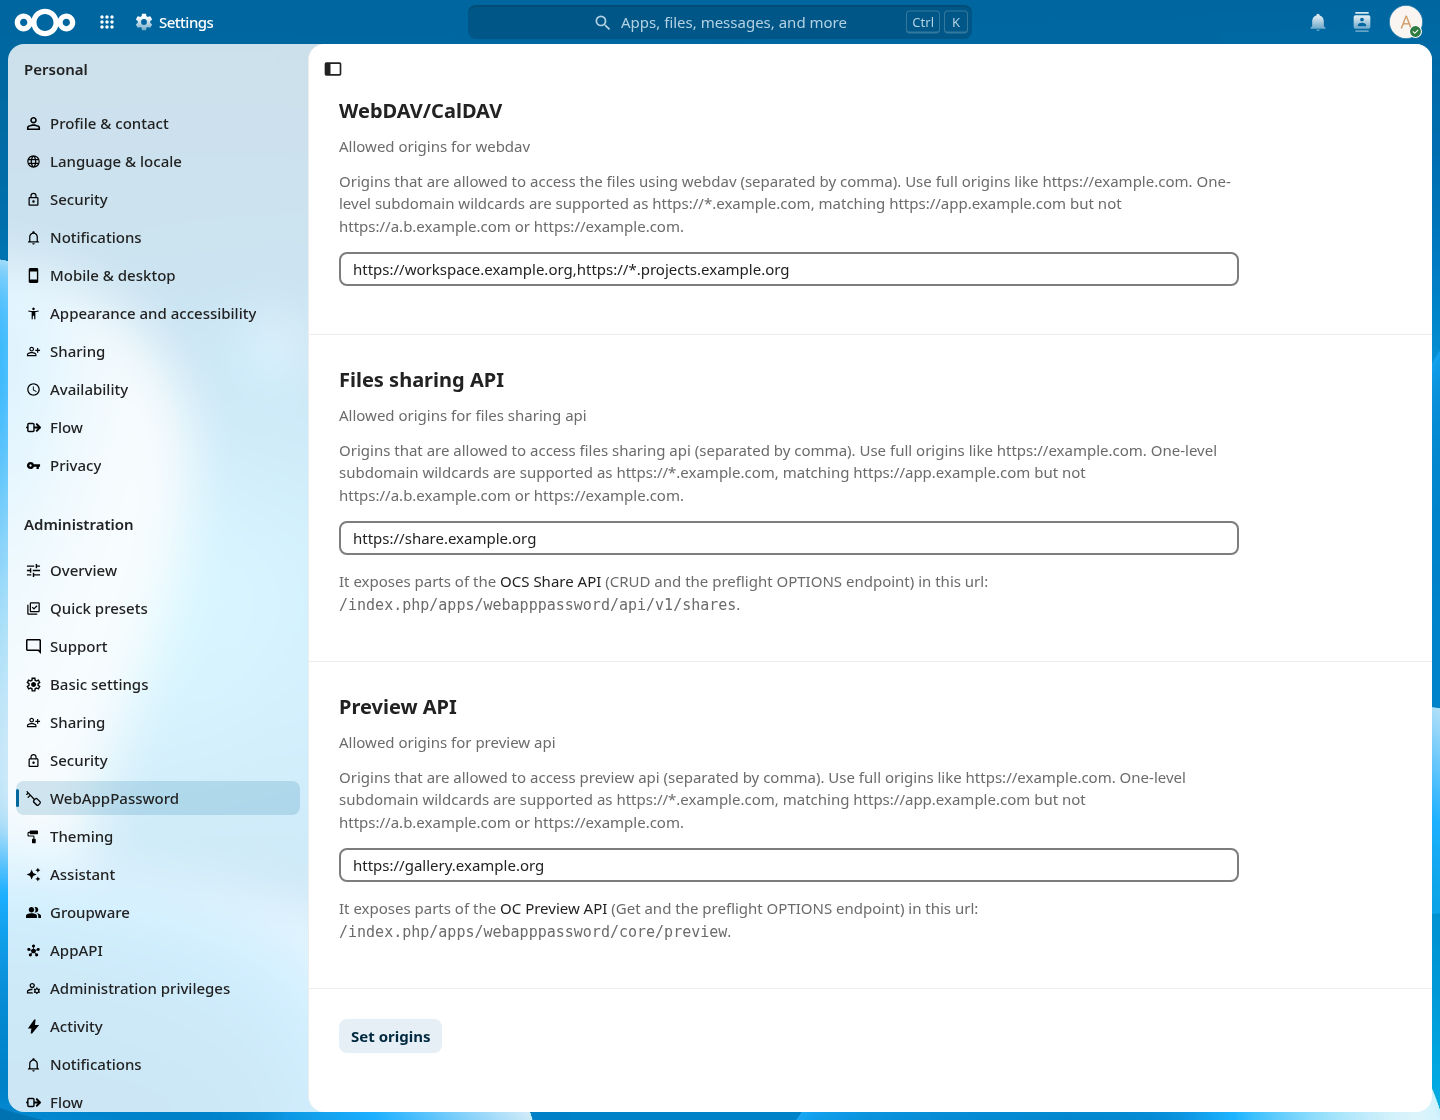
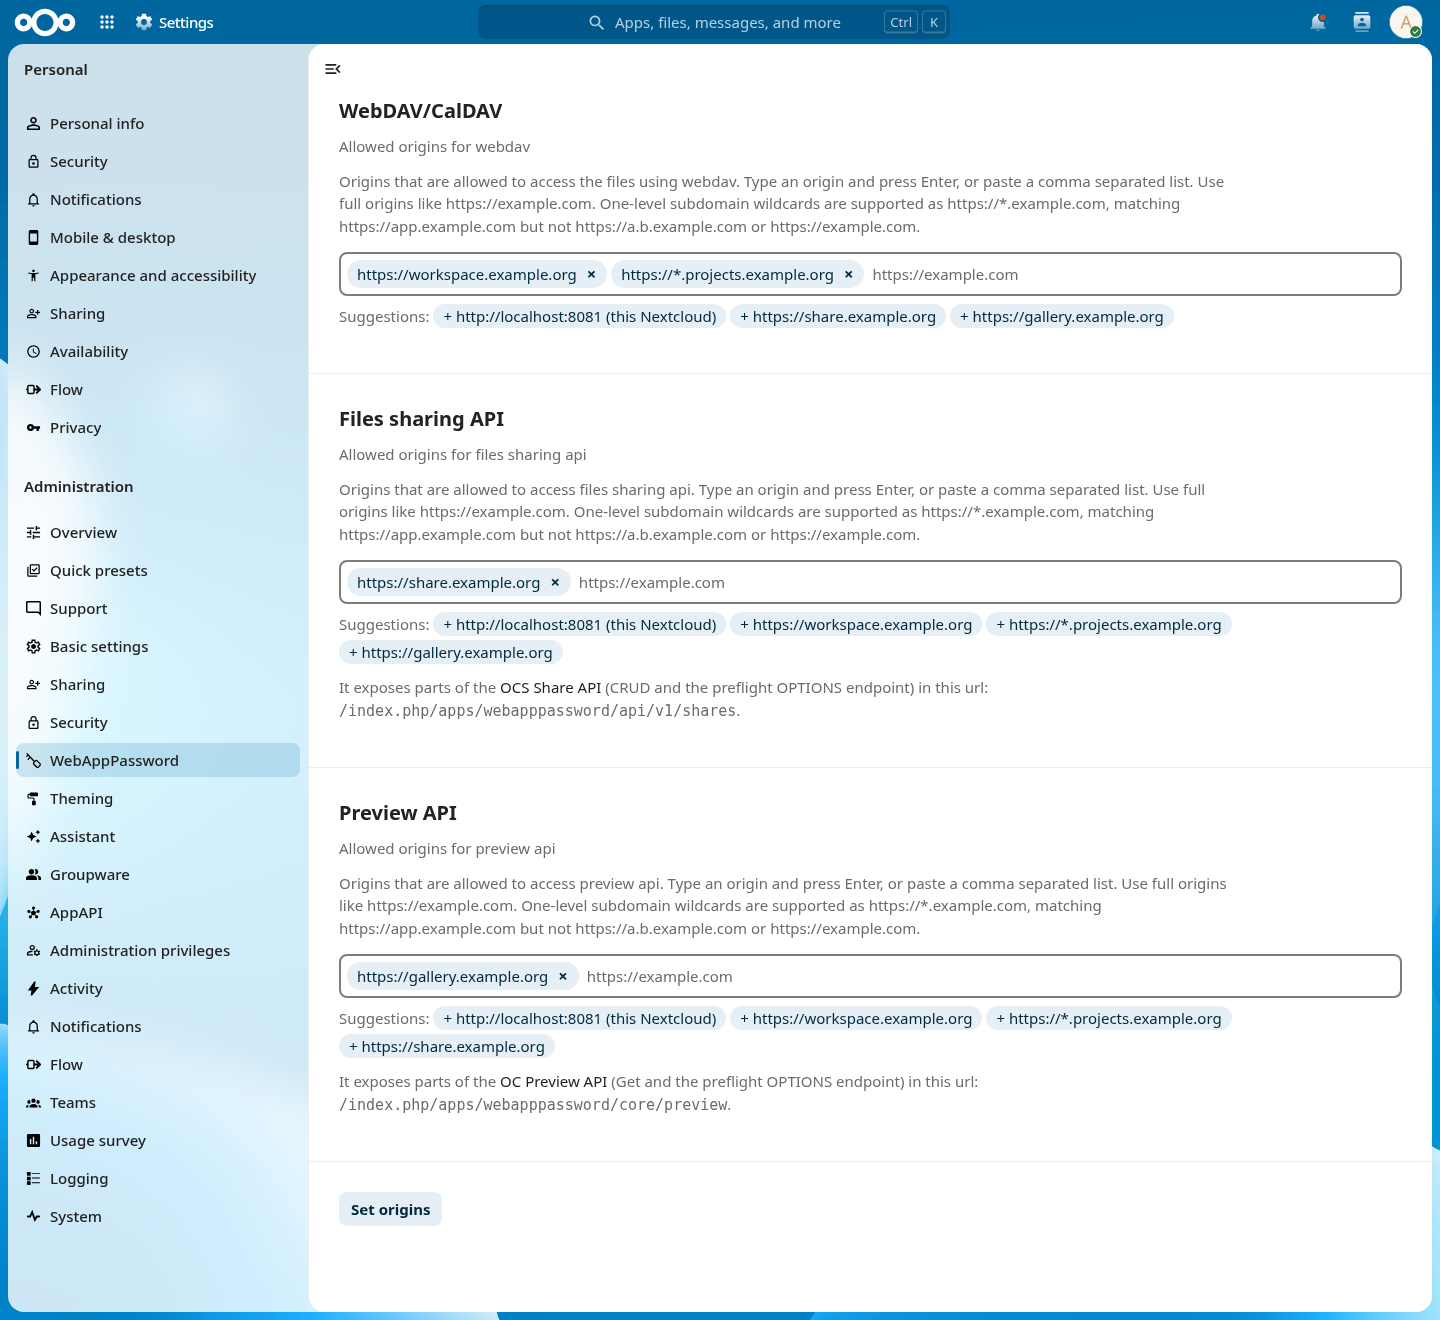
docs: update admin screenshot for the origin pickers (#360)
Clear existing origin chips before filling in the example origins and
increase the viewport height so the taller form fits.

diff --git a/scripts/screenshots.py b/scripts/screenshots.py
@@ -173,7 +173,7 @@ def capture_admin(browser: Browser) -> bytes:
     wait_for_nextcloud(base_url)
 
     page = browser.new_page(
-        viewport={"width": 1440, "height": 1120},
+        viewport={"width": 1440, "height": 1320},
         locale="en-US",
         color_scheme="light",
         reduced_motion="reduce",
@@ -189,6 +189,9 @@ def capture_admin(browser: Browser) -> bytes:
         page.goto(f"{base_url}/index.php/settings/admin/webapppassword")
 
         # Fill the real UI, but deliberately do not click "Set origins".
+        remove_buttons = page.locator(".webapppassword-origin-picker__chip button")
+        while remove_buttons.count() > 0:
+            remove_buttons.first.click()
         for selector, origins in {
             "#webapppassword-origins-entry": "https://workspace.example.org,https://*.projects.example.org",
             "#files-sharing-webapppassword-origins-entry": "https://share.example.org",
